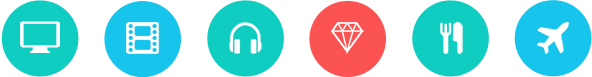
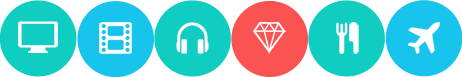
adds hobby

diff --git a/hello/index.html b/hello/index.html
@@ -220,6 +220,121 @@
               </div>
             </div>
           </div>
+          <div class="hobby">
+            <div class="hobby-images">
+              <div class="hobby-image">
+                <div class="webaddict"></div>
+                <span>WEBADDICT</span>
+              </div>
+              <div class="hobby-image">
+                <div class="films"></div>
+                <span>SÉRIVORE</span>
+              </div>
+              <div class="hobby-image">
+                <div class="music"></div>
+                <span>MÉLOMANE</span>
+              </div>
+              <div class="hobby-image">
+                <div class="fashionista"></div>
+                <span>FASHIONISTA</span>
+              </div>
+              <div class="hobby-image">
+                <div class="epicurean"></div>
+                <span>EPICURIENNE</span>
+              </div>
+              <div class="hobby-image">
+                <div class="travels"></div>
+                <span>VOYAGEUSE</span>
+              </div>
+            </div>
+            <div class="progress-bars">
+              <div class="progress-bars-left">
+                <div class="progress-bar">
+                  <div class="caption">
+                    <span>Photoshop</span>
+                    <div>
+                      <div class="percent">80%</div>
+                      <div class="angle"></div>
+                    </div>
+                  </div>
+                  <progress value="81" max="100"></progress>
+                </div>
+                <div class="progress-bar">
+                  <div class="caption">
+                    <span>Illustrator</span>
+                    <div>
+                      <div class="percent">55%</div>
+                      <div class="angle"></div>
+                    </div>
+                  </div>
+                  <progress value="54" max="100"></progress>
+                </div>
+                <div class="progress-bar">
+                  <div class="caption">
+                    <span>Wordpress</span>
+                    <div>
+                      <div class="percent">95%</div>
+                      <div class="angle"></div>
+                    </div>
+                  </div>
+                  <progress value="94" max="100"></progress>
+                </div>
+                <div class="progress-bar">
+                  <div class="caption">
+                    <span>Prestashop</span>
+                    <div>
+                      <div class="percent">85%</div>
+                      <div class="angle"></div>
+                    </div>
+                  </div>
+                  <progress value="84" max="100"></progress>
+                </div>
+              </div>
+              <div class="progress-bars-right">
+                <div class="progress-bar">
+                  <div class="caption">
+                    <span>Référencement naturel</span>
+                    <div>
+                      <div class="percent">60%</div>
+                      <div class="angle"></div>
+                    </div>
+                  </div>
+                  <progress value="70" max="100"></progress>
+                </div>
+                <div class="progress-bar">
+                  <div class="caption">
+                    <span>Réseaux sociaux</span>
+                    <div>
+                      <div class="percent">75%</div>
+                      <div class="angle"></div>
+                    </div>
+                  </div>
+                  <progress value="77" max="100"></progress>
+                </div>
+                <div class="progress-bar">
+                  <div class="caption">
+                    <span>UI Design</span>
+                    <div>
+                      <div class="percent">55%</div>
+                      <div class="angle"></div>
+                    </div>
+                  </div>
+                  <progress value="58" max="100"></progress>
+                </div>
+                <div class="progress-bar">
+                  <div class="caption">
+                    <span>User eXperience</span>
+                    <div>
+                      <div class="percent">60%</div>
+                      <div class="angle"></div>
+                    </div>
+                  </div>
+                  <progress value="70" max="100"></progress>
+                </div>
+              </div>
+            </div>
+          </div>
+          </div>
         </div>
       </main>
     </div>

diff --git a/hello/index.css b/hello/index.css
@@ -424,3 +424,238 @@ main .job-bottom .rating span:nth-of-type(4) {
 main .job-bottom .rating span:nth-of-type(5) {
   right: 2px;
 }
+
+/*hobby*/
+
+main .right-sidebar .hobby {
+  background-color: #ffffff;
+  padding: 15px;
+  padding-bottom: 20px;
+}
+
+main .right-sidebar .hobby .hobby-images {
+  display: flex;
+  justify-content: space-between;
+}
+
+main .right-sidebar .hobby .hobby-images .hobby-image {
+  display: flex;
+  flex-direction: column;
+  align-items: center;
+}
+
+main .right-sidebar .hobby .hobby-images .hobby-image div {
+  background: url("hobby.png") no-repeat 0 0;
+  width: 77px;
+  height: 77px;
+  margin-bottom: 10px;
+}
+
+main .right-sidebar .hobby .hobby-images .hobby-image span {
+  font-size: 13px;
+}
+
+main .right-sidebar .hobby .hobby-images .hobby-image div.films {
+  background-position: -77px 0;
+}
+
+main .right-sidebar .hobby .hobby-images .hobby-image div.music {
+  background-position: -154px 0;
+}
+
+main .right-sidebar .hobby .hobby-images .hobby-image div.fashionista {
+  background-position: -231px 0;
+}
+
+main .right-sidebar .hobby .hobby-images .hobby-image div.epicurean {
+  background-position: -308px 0;
+}
+
+main .right-sidebar .hobby .hobby-images .hobby-image div.travels {
+  background-position: -385px 0;
+}
+
+/*Progress bars in hobby*/
+
+main .right-sidebar .hobby .progress-bars {
+  display: grid;
+  grid-template-columns: auto auto;
+  gap: 15px;
+  margin-top: 42px;
+  /* border: 1px solid; */
+}
+
+main .right-sidebar .hobby .progress-bars div {
+  padding-left: 2px;
+}
+
+main .right-sidebar .hobby .progress-bars .progress-bars-right {
+  margin-left: 30px;
+}
+
+main .right-sidebar .hobby .progress-bars .progress-bar {
+  margin-bottom: 17px;
+  position: relative;
+}
+
+main .right-sidebar .hobby .progress-bars .progress-bar progress {
+  background-color: #ffffff;
+  width: 270px;
+  height: 14px;
+}
+
+main
+  .right-sidebar
+  .hobby
+  .progress-bars
+  .progress-bar
+  progress::-webkit-progress-value {
+  border-top-left-radius: 5px;
+  border-bottom-left-radius: 5px;
+}
+
+main
+  .right-sidebar
+  .hobby
+  .progress-bars
+  .progress-bars-left
+  .progress-bar
+  progress::-webkit-progress-value {
+  background-color: #04bca6;
+}
+
+main
+  .right-sidebar
+  .hobby
+  .progress-bars
+  .progress-bars-right
+  .progress-bar
+  progress::-webkit-progress-value {
+  background-color: #16c4ec;
+}
+
+main
+  .right-sidebar
+  .hobby
+  .progress-bars
+  .progress-bar
+  progress::-webkit-progress-bar {
+  border-radius: 5px;
+  background-color: #dbe1e8;
+}
+
+main .right-sidebar .hobby .progress-bars .progress-bar .caption {
+  display: flex;
+}
+
+main .right-sidebar .hobby .progress-bars .progress-bar .caption span {
+  color: #34495e;
+}
+
+main .right-sidebar .hobby .progress-bars .progress-bar .caption div .percent {
+  color: #f5f6f6;
+  background-color: #34495e;
+  font-size: 12px;
+  border-radius: 5px;
+  padding: 1px 7px;
+}
+
+main .right-sidebar .hobby .progress-bars .progress-bar .caption div .angle {
+  width: 0;
+  height: 0;
+  border-style: solid;
+  border-width: 2.6px 1.5px 0 1.5px;
+  border-color: #34495e transparent transparent transparent;
+
+  margin: 0 auto;
+}
+
+/*left percents*/
+main
+  .right-sidebar
+  .hobby
+  .progress-bars
+  .progress-bars-left
+  .progress-bar:nth-child(1)
+  .caption
+  > div {
+  margin-left: 119px;
+}
+
+main
+  .right-sidebar
+  .hobby
+  .progress-bars
+  .progress-bars-left
+  .progress-bar:nth-child(2)
+  .caption
+  > div {
+  margin-left: 50px;
+}
+
+main
+  .right-sidebar
+  .hobby
+  .progress-bars
+  .progress-bars-left
+  .progress-bar:nth-child(3)
+  .caption
+  > div {
+  margin-left: 152px;
+}
+
+main
+  .right-sidebar
+  .hobby
+  .progress-bars
+  .progress-bars-left
+  .progress-bar:nth-child(4)
+  .caption
+  > div {
+  margin-left: 124px;
+}
+
+/*right percents*/
+main
+  .right-sidebar
+  .hobby
+  .progress-bars
+  .progress-bars-right
+  .progress-bar:nth-child(1)
+  .caption
+  > div {
+  margin-left: 3px;
+}
+
+main
+  .right-sidebar
+  .hobby
+  .progress-bars
+  .progress-bars-right
+  .progress-bar:nth-child(2)
+  .caption
+  > div {
+  margin-left: 70px;
+}
+
+main
+  .right-sidebar
+  .hobby
+  .progress-bars
+  .progress-bars-right
+  .progress-bar:nth-child(3)
+  .caption
+  > div {
+  margin-left: 65px;
+}
+
+main
+  .right-sidebar
+  .hobby
+  .progress-bars
+  .progress-bars-right
+  .progress-bar:nth-child(4)
+  .caption
+  > div {
+  margin-left: 50px;
+}
